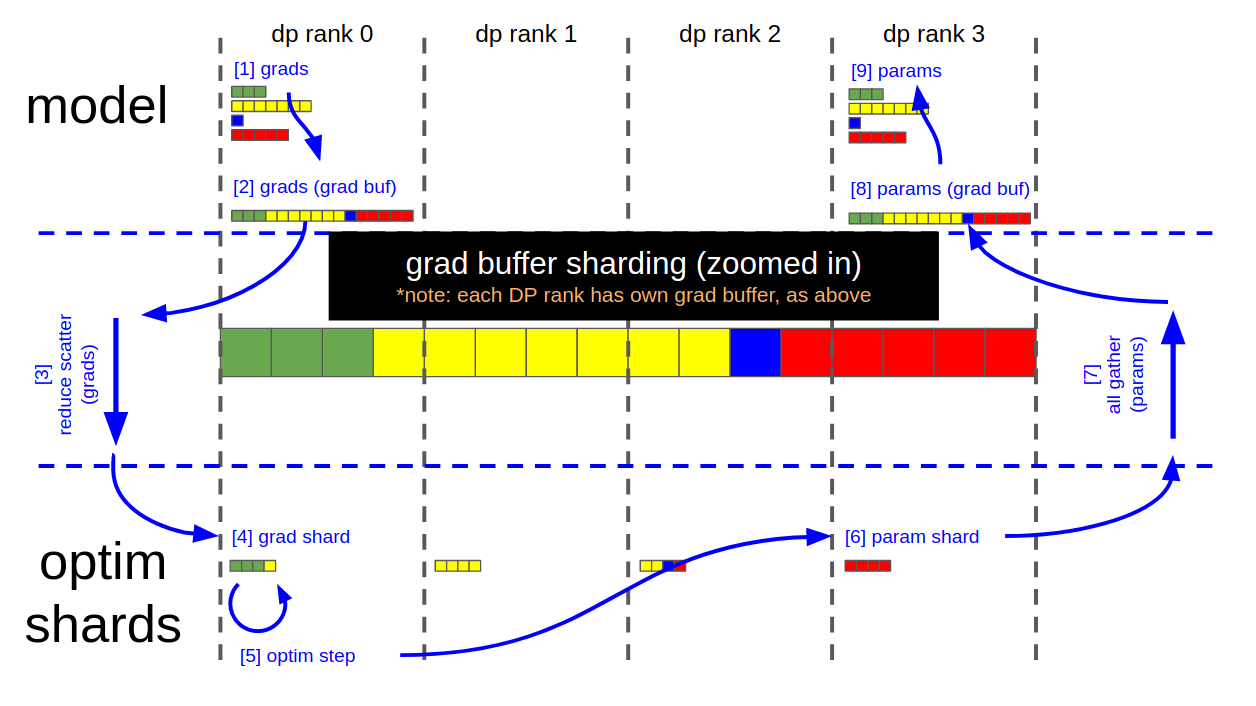
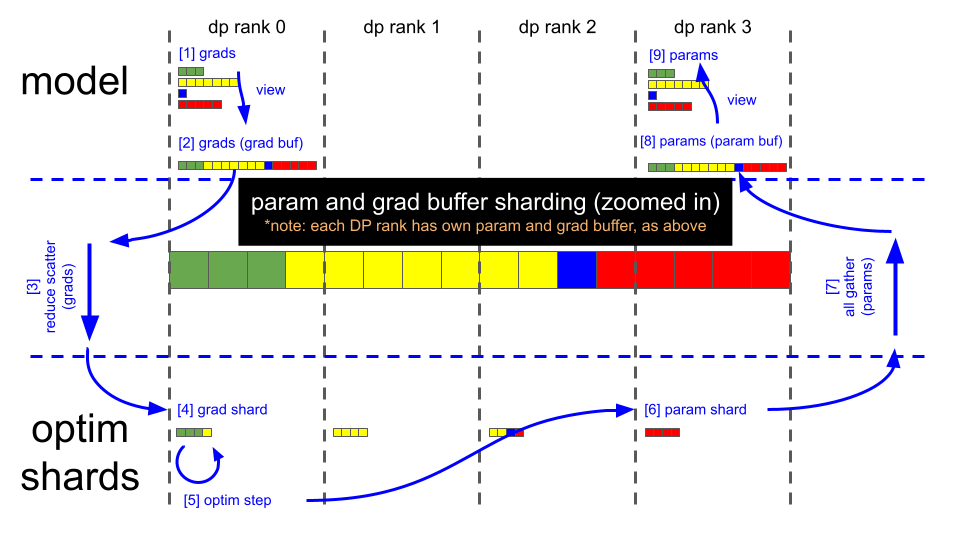
ADLR/megatron-lm!1951 - Fix description of distributed optimizer workflow

diff --git a/docs/source/api-guide/dist_optimizer.md b/docs/source/api-guide/dist_optimizer.md
@@ -1,30 +1,18 @@
 # Distributed Optimizer
 
-The motivation for the distributed optimizer is to save memory by distributing the optimizer state evenly across data parallel ranks, versus the current method of replicating the optimizer state across data parallel ranks. As described in https://arxiv.org/abs/1910.02054, this branch specifically implements the following:
+The motivation for the distributed optimizer is to save memory by distributing the optimizer state evenly across data parallel ranks (https://arxiv.org/abs/1910.02054), versus the naive method of replicating the optimizer state across data parallel ranks.
 
-- [yes] distribute all 'non-overlapping' optimizer state (i.e., model params already in fp32 are NOT distributed)
-- [no] distribute model gradients
-- [no] distribute model parameters
-
-Theoretical memory savings vary depending on the combination of the model's param dtype and grad dtype. In the current implementation, the theoretical number of bytes per parameter is (where 'd' is the data parallel size):
+Theoretical memory savings vary depending on the combination of the datatype of the model's parameters (`param_dtype`) and main gradients accumulated across data-parallel replicas (`grad_dtype`). We always use `fp32` main parameters for optimizer steps. In the current implementation, the theoretical number of bytes per parameter is (where d is the data parallel size):
 
 |        | Non-distributed optim | Distributed optim |
 | ------ | ------ | ------ |
-| float16 param, float16 grads | 20 | 4 + 16/d |
-| float16 param, fp32 grads    | 18 | 6 + 12/d |
-| fp32 param, fp32 grads       | 16 | 8 + 8/d  |
+| `fp16` parameters, `fp16` gradients | 20 | 4 + 16/d |
+| `bf16` parameters, `fp32` gradients    | 18 | 6 + 12/d |
+| `fp32` parameters, `fp32` gradients       | 16 | 8 + 8/d  |
 
-The implementation of the distributed optimizer is centered on using the contiguous grad buffer for communicating grads & params between the model state and the optimizer state. The grad buffer at any given moment either holds:
+Our implementation of the distributed optimizer uses contiguous buffers for parameters and main gradients; model gradients are copied over to the main gradients as soon as they are fully computed.
 
-1. all model grads
-2. a 1/d size _copy_ of the main grads (before copying to the optimizer state)
-3. a 1/d size _copy_ of the main params (after copying from the optimizer state)
-4. all model params
-5. zeros (or None), between iterations
-
-The grad buffer is used for performing reduce-scatter and all-gather operations, for passing grads & params between the model state and optimizer state. With this implementation, no dynamic buffers are allocated.
-
-The figures below illustrate the grad buffer's sharding scheme, and the key steps of the distributed optimizer's param update:
+The figures below illustrate the distributed optimizer's sharding scheme, and the key steps of the distributed optimizer's parameter update:
 
 ## Data flow
 
@@ -36,19 +24,17 @@ The figures below illustrate the grad buffer's sharding scheme, and the key step
 
 ## Key steps
 
-_(note: using illustrations above, and assuming fp16 grads)_
+_(note: using illustrations above, assuming `bf16` model weights, `bf16` model gradients that are computed by the backward pass and `fp32` main gradients that are also used for optimizer steps; we always use `fp32` main weights for optimizer steps)_
 
-- Backward pass finishes (grad buffer holds 16 fp16 grad elements)
-- Call reduce-scatter on each DP rank
-- Each DP rank now has 4 elements within the grad buffer that are fully reduced (remaining 12 elements are garbage)
-- Each DP rank copies its relevant 4 fp16 grad elements from the grad buffer into 4 fp32 main grad elements (separate buffer, owned by the optimizer); i.e.
-  - DP rank 0 copies elements [0:4]
-  - DP rank 1 copies elements [4:8]
-  - DP rank 2 copies elements [8:12]
-  - DP rank 3 copies elements [12:16]
-- Optimizer.step()
-- Each DP rank copies its 4 fp32 main (/optimizer) param elements into the corresponding 4 fp16 elements in the grad buffer
-- Call all-gather on each DP rank
-- Grad buffer now contains all 16, fully updated, fp16 model param elements
-- Copy updated model params from grad buffer into their respective param tensors
-- (At this point, grad buffer is ready to be zero'd for the next iteration)
+- Backward pass finishes (gradient buffer holds 16 `fp32` gradient elements).
+- Call reduce-scatter on each DP rank.
+- Each DP rank now has 4 elements within the gradient buffer that are fully reduced (remaining 12 elements are garbage).
+  - DP rank 0 has gradient values for elements [0:4].
+  - DP rank 1 has gradient values for elements [4:8].
+  - DP rank 2 has gradient values for elements [8:12].
+  - DP rank 3 has gradient values for elements [12:16].
+- Optimizer.step().
+- Each DP rank copies its 4 `fp32` main parameter elements into the corresponding `bf16` parameter buffer (each element is cast from fp32 to fp16).
+- Call all-gather on each DP rank.
+- The parameter buffer now contains all 16, fully updated, `bf16` model parameter elements. Parameters in PyTorch modules already point to the appropriate locations in this parameter buffer, and thus forward passes are ready to run after the all-gather completes.
+- At this point, the gradient buffer is also ready to be zero'd for the next iteration.
